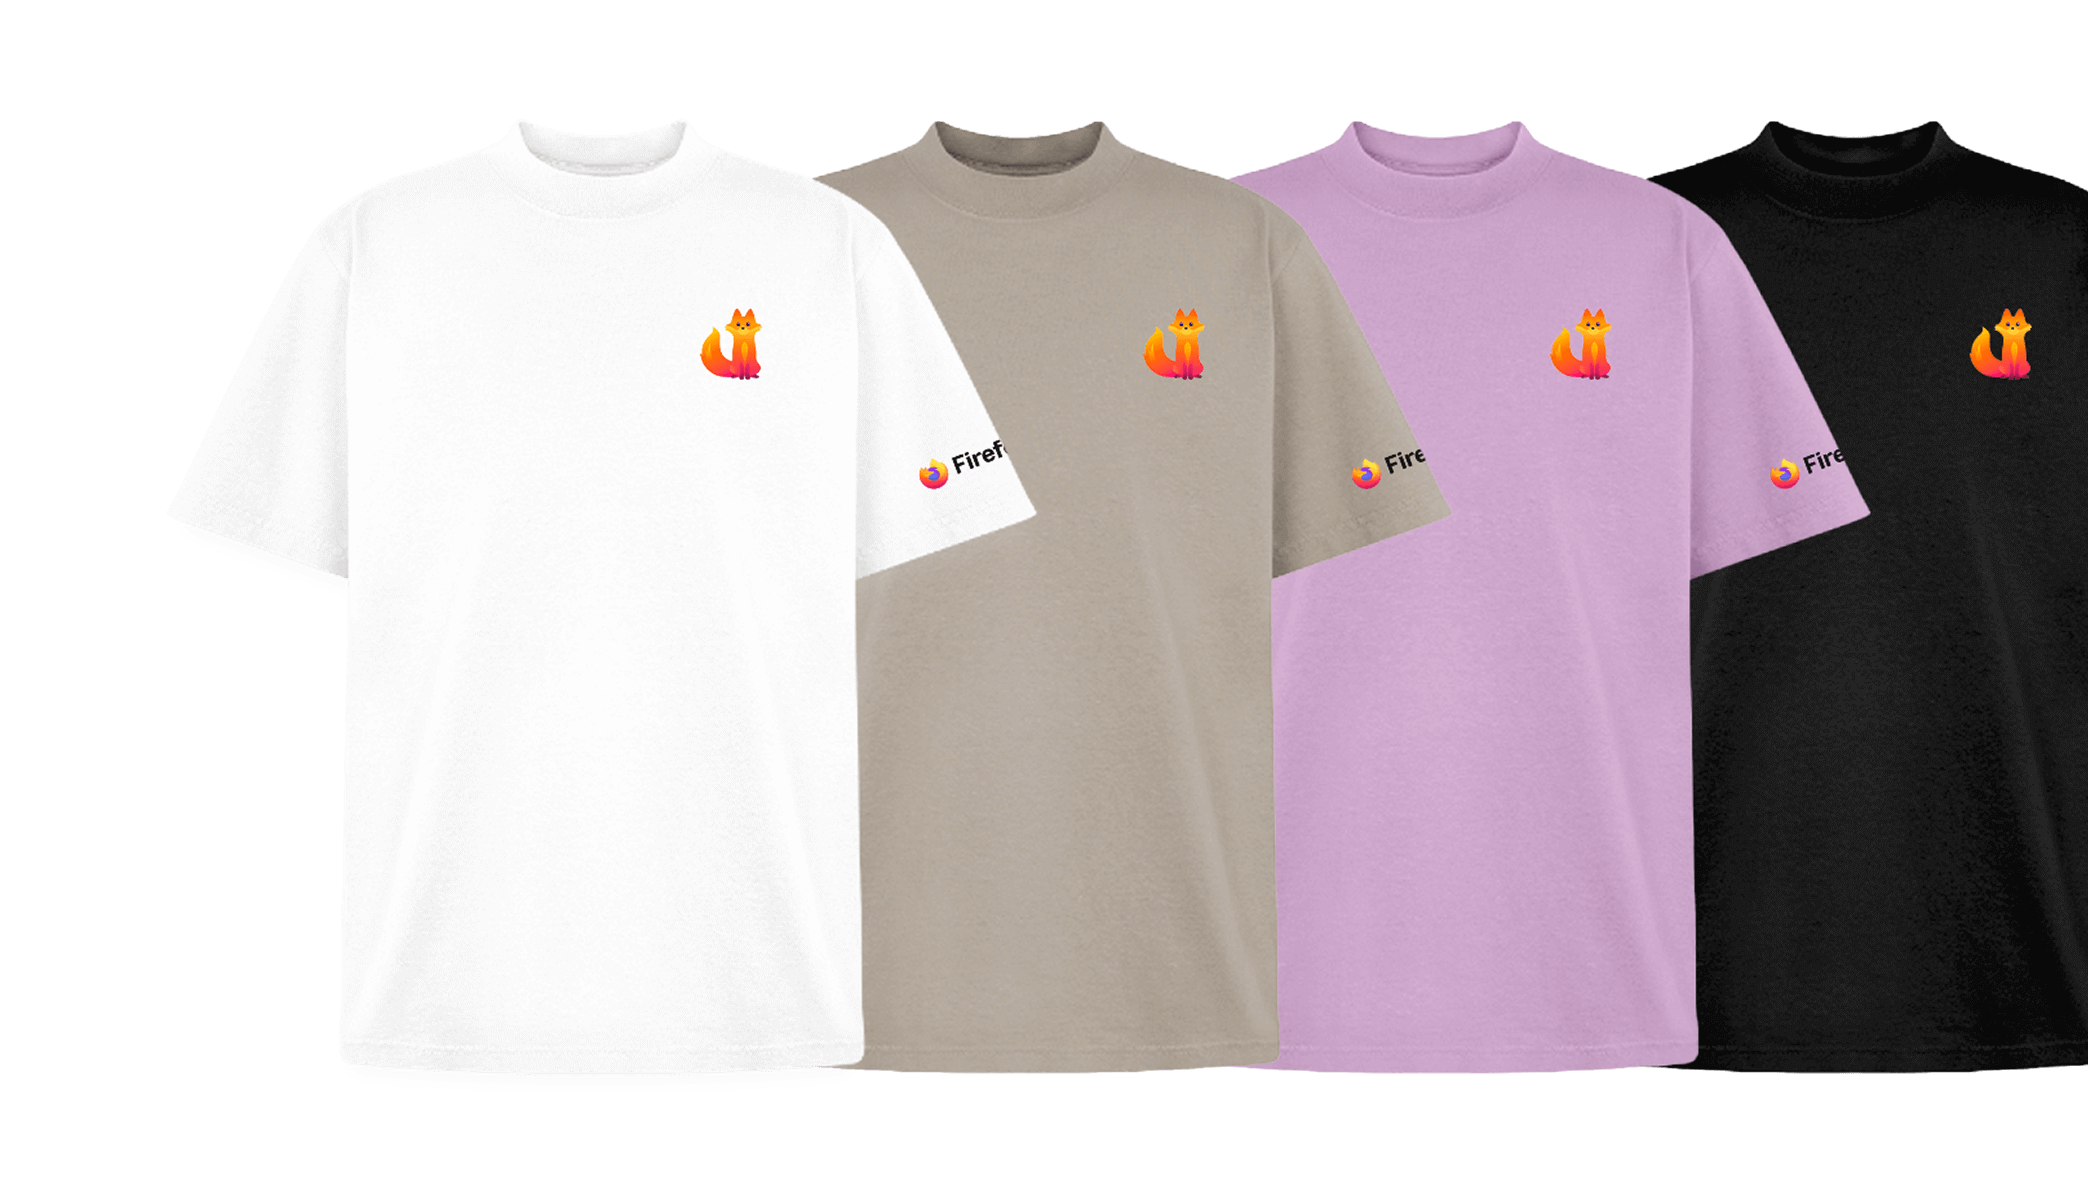
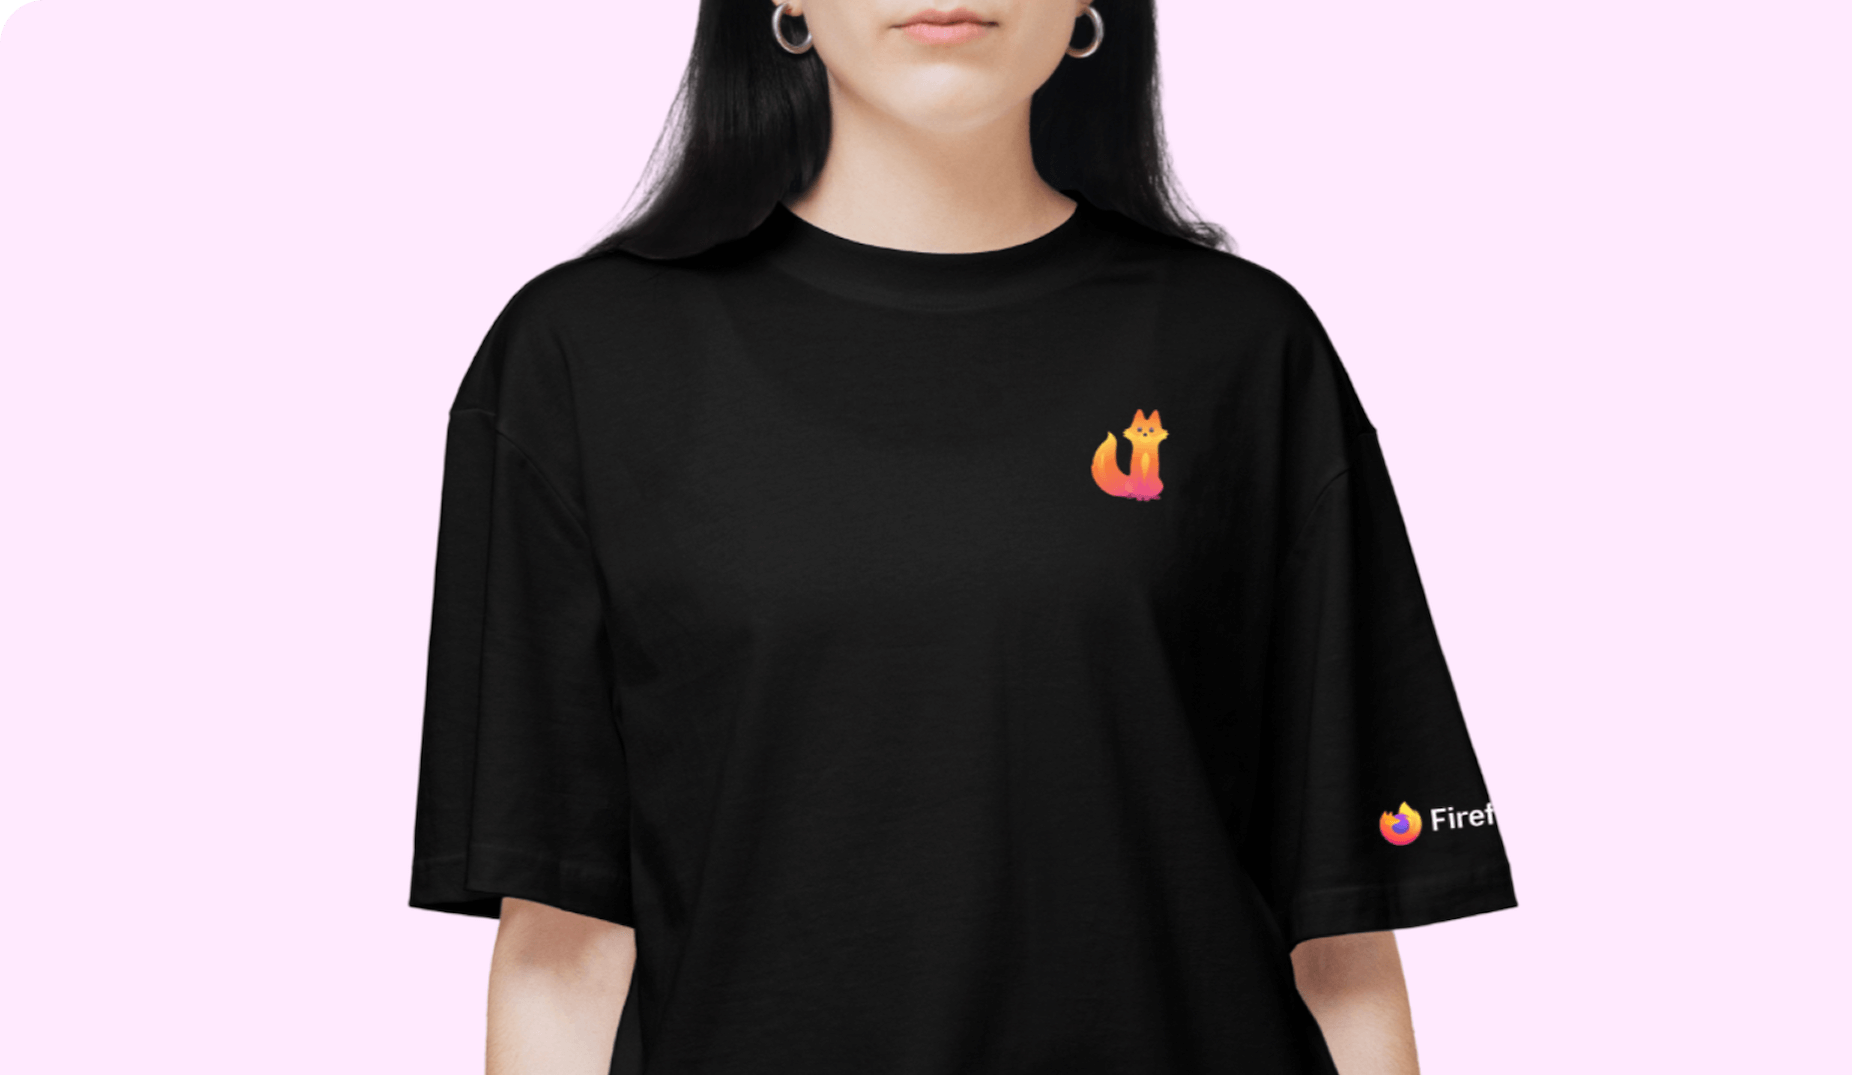
Update merch image

diff --git a/springfield/firefox/templates/firefox/landing/kit.html b/springfield/firefox/templates/firefox/landing/kit.html
@@ -129,7 +129,7 @@
         }}
       </div>
     </section>
-    <section aria-labelledby="heading-3" class="c-gallery-card c-gallery-card-dark c-gallery-card-type-2">
+    <section aria-labelledby="heading-3" class="c-gallery-card c-gallery-card-dark c-gallery-card-type-1">
       <div class="c-gallery-card-text-container">
         <h2 id="heading-3" class="c-gallery-card-heading">{{ card_2_heading }}</h2>
         {{ card_2_body | safe }}
@@ -140,17 +140,17 @@
       </div>
       <div class="c-gallery-card-media-container">
         {{ resp_img(
-          url="img/firefox/landing/kit/merch-696.png",
+          url="img/firefox/landing/kit/merch-627.png",
           srcset={
-            "img/firefox/landing/kit/merch-350.png": "350w",
-            "img/firefox/landing/kit/merch-696.png": "696w",
-            "img/firefox/landing/kit/merch-1392.png": "1392w",
+            "img/firefox/landing/kit/merch-316.png": "316w",
+            "img/firefox/landing/kit/merch-627.png": "627w",
+            "img/firefox/landing/kit/merch-1254.png": "1254w",
             "img/firefox/landing/kit/merch-1852.png": "1852w",
           },
           sizes={
-              "(min-width: 1440px)": "calc((1440px - 80px) / 2)",
-              "(min-width: 1024px)": "calc(50vw - 80px)",
-              "default": "calc(100vw - 48px)",
+              "(min-width: 1440px)": "calc((1440px - 156px) / 2)",
+              "(min-width: 1024px)": "calc(50vw - 156px)",
+              "default": "calc(100vw - 80px)",
           },
           optional_attributes={ "loading": "lazy" }) }}
       </div>
